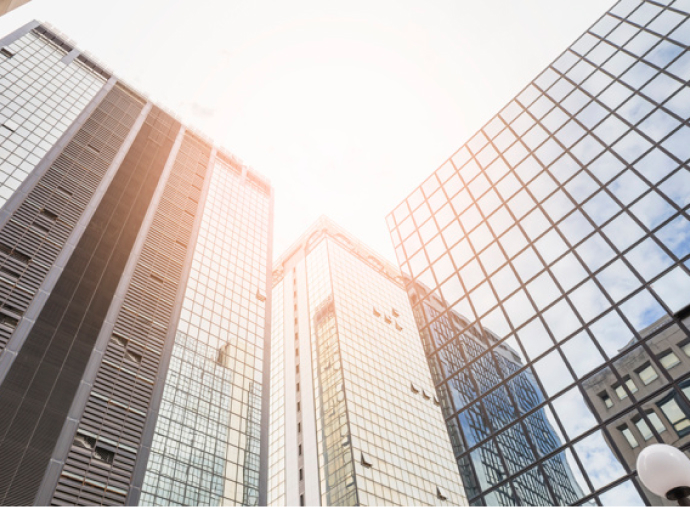
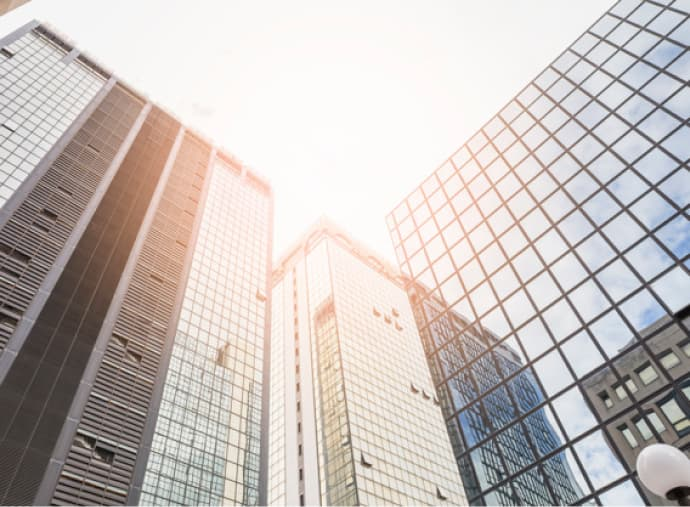
оптимизировал изображения, убрал менкие косяки

diff --git a/sass/main.css b/sass/main.css
@@ -436,13 +436,8 @@ a {
   padding-bottom: 19px;
   background: rgba(47, 45, 55, 0.25);
   border-radius: 4px;
-}
-
-.reg-window::before {
-  content: "";
-  z-index: 10;
-  -webkit-filter: blur(10px);
-  filter: blur(10px);
+  -webkit-backdrop-filter: blur(6px);
+          backdrop-filter: blur(6px);
 }
 
 @media screen and (min-width: 768px) {
@@ -600,7 +595,7 @@ a {
   margin-bottom: 17px;
   font-family: "Open sans";
   font-weight: 900;
-  font-size: 21px;
+  font-size: 20px;
   text-align: center;
   letter-spacing: 0.025em;
   color: #ffffff;
@@ -2366,6 +2361,12 @@ a {
   .footer-plant-tab,
   .footer-plant-mob {
     display: none;
+  }
+}
+
+@media screen and (min-width: 1280px) {
+  .footer-plant-desk {
+    display: block;
   }
 }
 /*# sourceMappingURL=main.css.map */

diff --git a/sass/components/_hero.scss b/sass/components/_hero.scss
@@ -67,12 +67,11 @@
   background: rgba(47, 45, 55, 0.25);
   border-radius: 4px;
 
-  &::before {
-    content: "";
-    z-index: 10;
-    -webkit-filter: blur(10px);
-    filter: blur(10px);
-  }
+  backdrop-filter: blur(6px);
+
+  // &::before {
+  //   content: "";
+  //   z-index: 10;
 
   @media screen and (min-width: 768px) {
     padding-left: 100px;
@@ -192,7 +191,7 @@
 
   font-family: "Open sans";
   font-weight: 900;
-  font-size: 21px;
+  font-size: 20px;
   text-align: center;
   letter-spacing: 0.025em;
   color: #ffffff;

diff --git a/sass/components/_last-news.scss b/sass/components/_last-news.scss
@@ -3,9 +3,6 @@
   display: flex;
   flex-direction: column;
   justify-content: center;
-
-  @media screen and (min-width: 768px) {
-  }
 }
 
 .left-plant {
@@ -204,7 +201,6 @@
     display: block;
     right: 0;
 
-    // margin-right: -70px;
     padding-right: 0;
   }
 }

diff --git a/sass/components/_footer.scss b/sass/components/_footer.scss
@@ -314,3 +314,9 @@
     display: none;
   }
 }
+
+.footer-plant-desk {
+  @media screen and (min-width: 1280px) {
+    display: block;
+  }
+}
